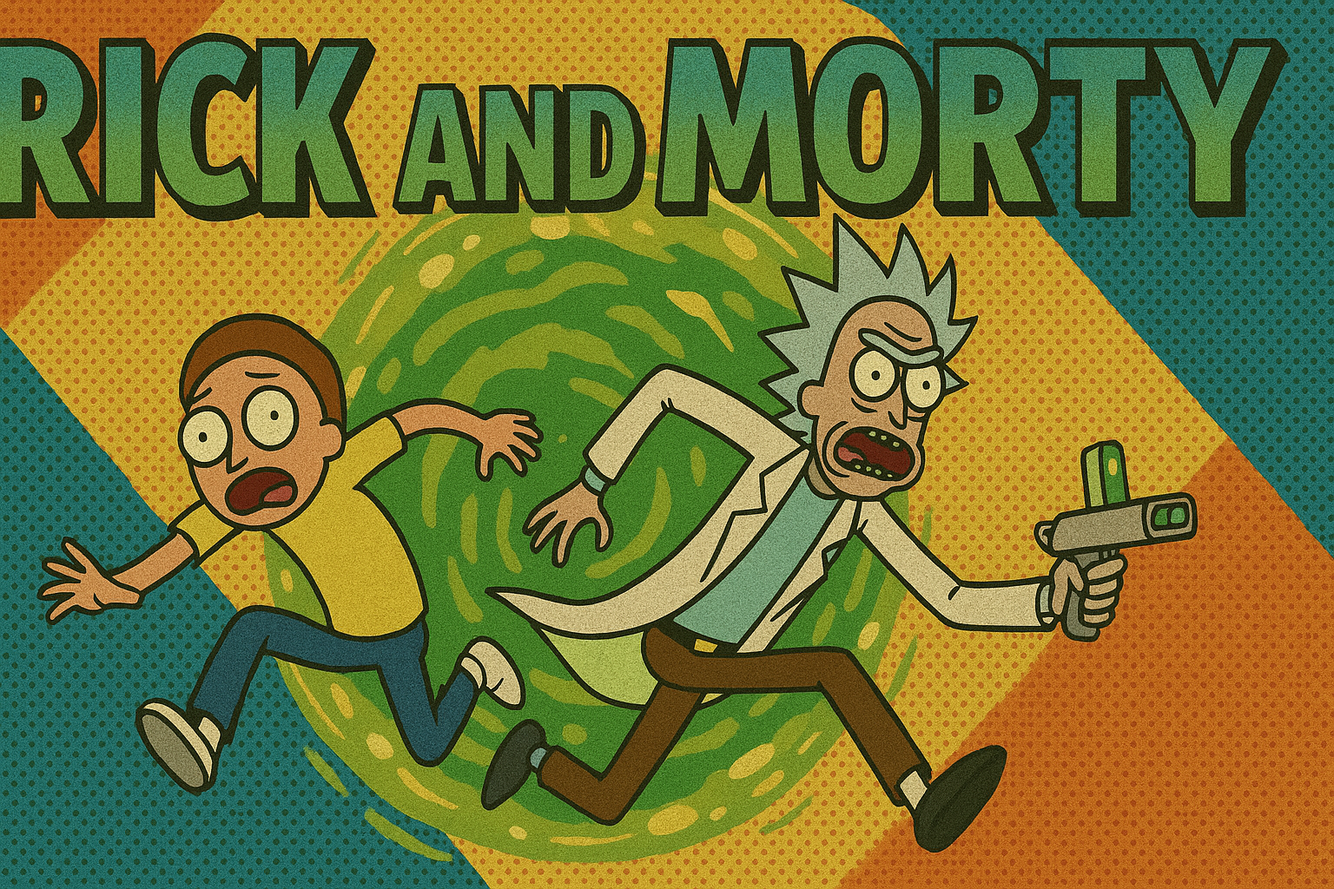
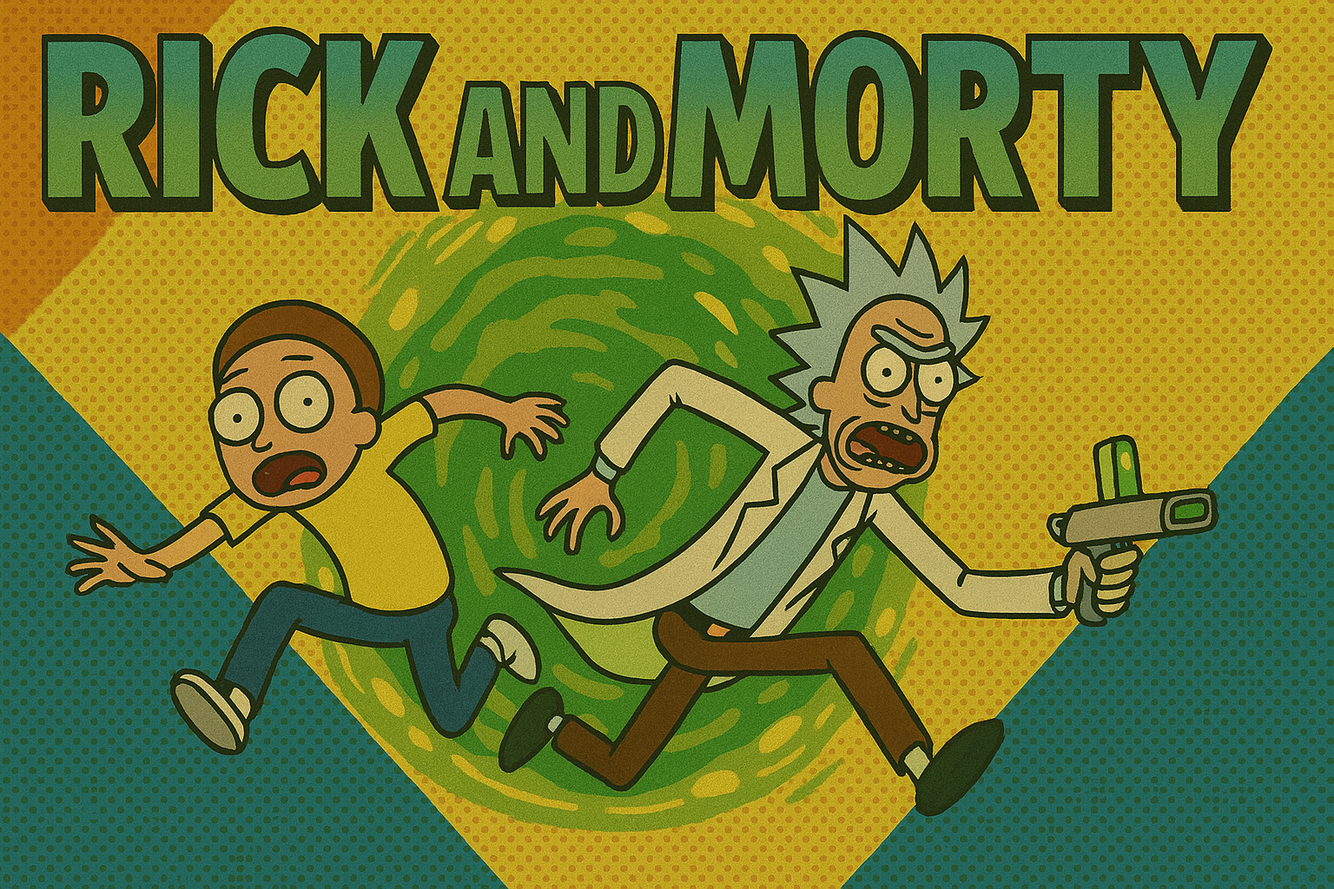
Working Report

diff --git a/styles.css b/styles.css
@@ -39,17 +39,29 @@ header {
   padding: 10px;
 }
 
+.banner {
+  height: 200px;
+  overflow: hidden;
+
+}
+.banner img{
+  width: 100%;
+  
+  object-fit: fi
+  overflow: hidden;
+  
+}
 /* The header is made up of a message bar and the banner image. */
 .tophead {
   width: 980px;
   height: 40px;
-  background-color: darkgoldenrod;
+  background-color: #fb571a;
   text-align: center;
   font-family: fantasy;
   font-weight: bold;
   font-size: 30px;
   padding: 1px;
-  border-bottom: 3px solid gray;
+  border-bottom: 3px solid darkcyan;
 }
 
 /* The navigation section. */
@@ -195,10 +207,13 @@ main {
   
  }
 
+ 
+
+
   .output-paper{
           position: relative;
           top: 12px;
-          left: 70px;
+          left: 56px;
           width: 100%;
           font-family: monospace;
           line-height: .5cm;
@@ -207,38 +222,48 @@ main {
           z-index: 1;
                   }
   .output-paper h3{
-    margin-top: 30px;
-    margin-left: 50px;
-    
+    margin-top: 50px;
+    margin-left: 55px;
+    font-family: monospace;
+    font-weight: bold;
   
   }
 
+  #loanAnalysis{
+    position:absolute;
+    background-color: darkcyan;
+    font-weight: 900;
+    font-family: 'Orbitron', sans-serif;
+    color: white;
+  }
 
     .output-paper p{
       position: relative;
-    margin-top: 45px; 
-    padding-left: 30px;
+    margin-top: 15px; 
+    padding-left: 40px;
     padding-bottom: 1px;
+    font-weight: bold;
   }
   
   .loan-table{
-    width: 345px;
+    width: 320px;
     border-collapse: collapse;
     font-family: monospace;
     font-weight: bold;
-    margin-left: 20px;
+    margin-left: 35px;
+    margin-top:  20px;
     
      }     
 
 
      
   .loan-table td {
-    border: 2px solid black;
+    border: 3px solid black;
     padding: 1px;
-    text-align: center;
+    text-align: right;
   }
   .loan-table th {
-    border: 2px solid black;
+    border: 3px solid black;
     padding: 1px;
     padding-bottom: 1px;
     text-align: center;

diff --git a/index.js b/index.js
@@ -196,13 +196,15 @@ function generateLoanAnalysis() {
     return;
   }
   const Rate = 0.052;
-  const Reasoning = prompt("Enter Reason For Loan:  ") || "";
+  const Reasoning = (prompt("Enter Reason For Loan:  ") || "")
+  .toLowerCase()
+  .replace(/\b\w/g, C => C.toUpperCase());
   
   
   // Here is the table 
 
    let html = "";
-    html += "<h3> Loan Analysis Statement </h3>"; 
+    html += "<h3> Loan Analysis Statement </h3>";
     html += "<p> 10 Year Option For Loan of $" + loanAmount.toFixed(2) +"</p>";
     html += "<p> Reason: " + Reasoning + "</p>";
     html += "<p> Statement Date:" + new Date().toLocaleDateString() + "</p>";
@@ -227,6 +229,15 @@ function generateLoanAnalysis() {
     html += "</tr>";
   }
  html += "</table>";
+
+  var choice = parseInt(prompt("Enter Number Of Years (1 - 10): "))
+
+  if (isNaN(choice) || choice < 1 || choice > 10) {
+    html += "<p>Option Not Selected Or Valid</p>";
+  } else {
+    html += "<p>Payback Option: " + choice + " Years</p";
+  }
+
    document.getElementById("loanArea").innerHTML = html;
 }
 
